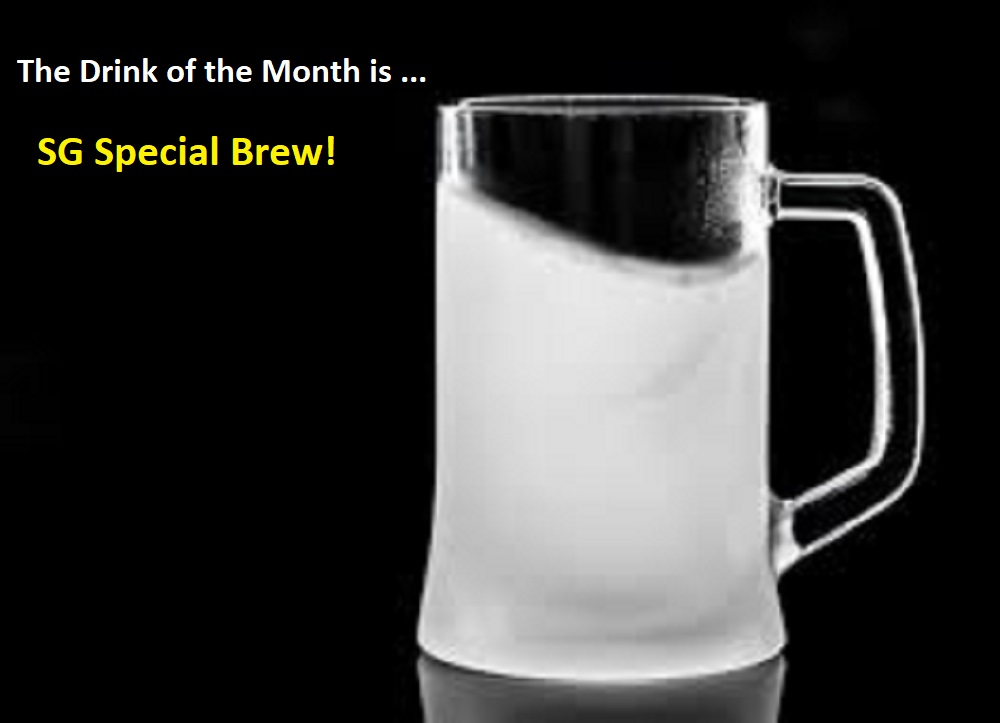
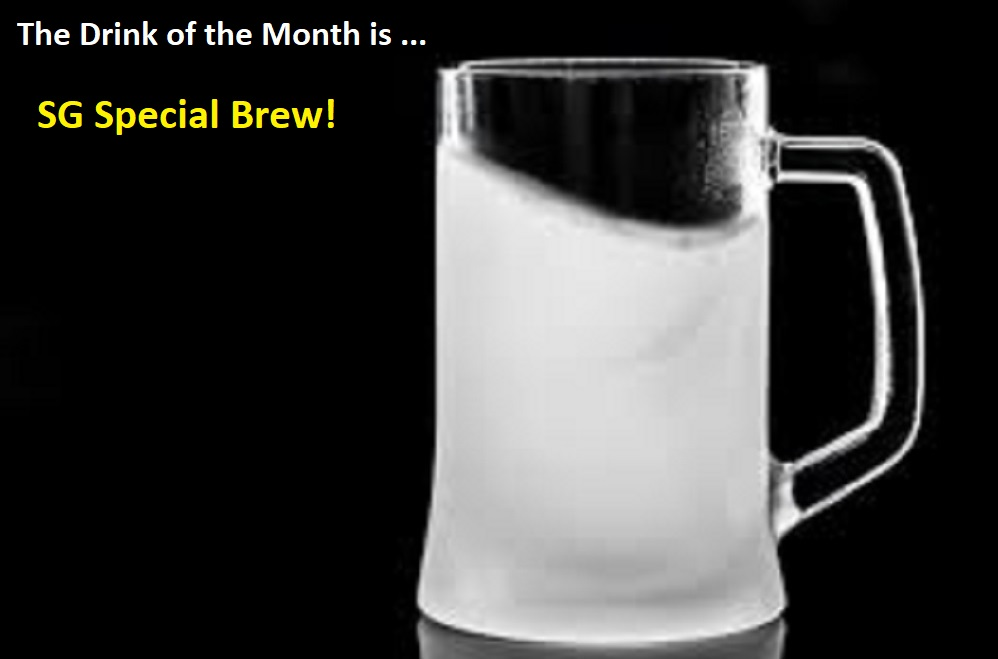
Make changes to home page images and related styles

Changed region(s): [[0.0, 0.0303, 0.9319, 1.0], [0.0311, 0.1517, 0.3417, 0.2428]]

diff --git a/Restaurant Site/styles/restaurantStyles.css b/Restaurant Site/styles/restaurantStyles.css
@@ -71,14 +71,10 @@ nav .btn:active {
 
 .carousel-item {
 	width: auto;
-	height: 600px;
-	max-height: 600px;
 }
 
 .carousel-inner {
 	width: auto;
-	height: 600px;
-	max-height: 600px;
 	margin-bottom: 200px;
 }
 
